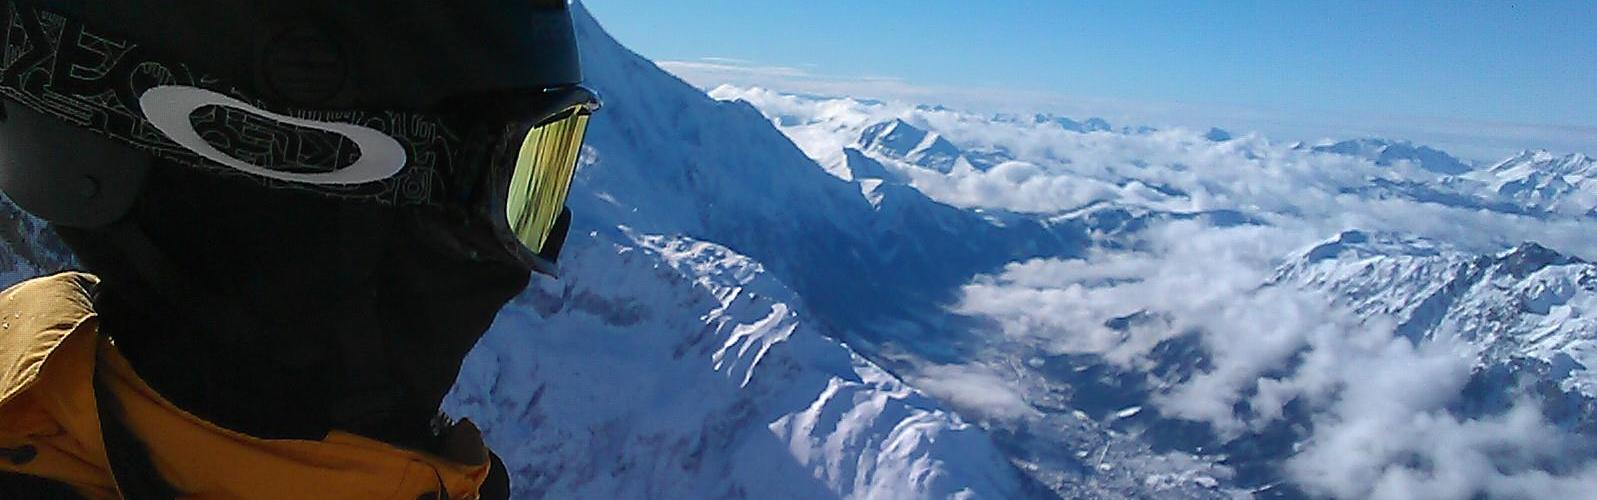
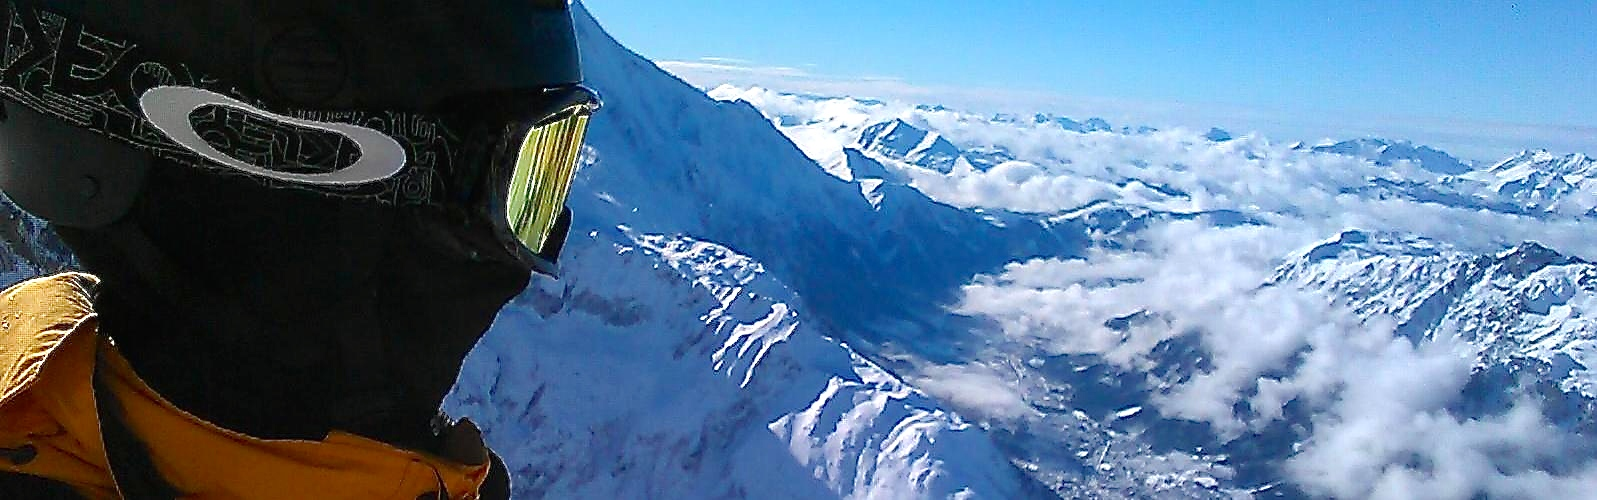
Tweak index cover image

diff --git a/posts/index.md b/posts/index.md
@@ -2,4 +2,6 @@
 layout: post-index
 title: All Posts
 excerpt: "A List of Posts"
+image:
+  feature: cover.jpg
 ---
